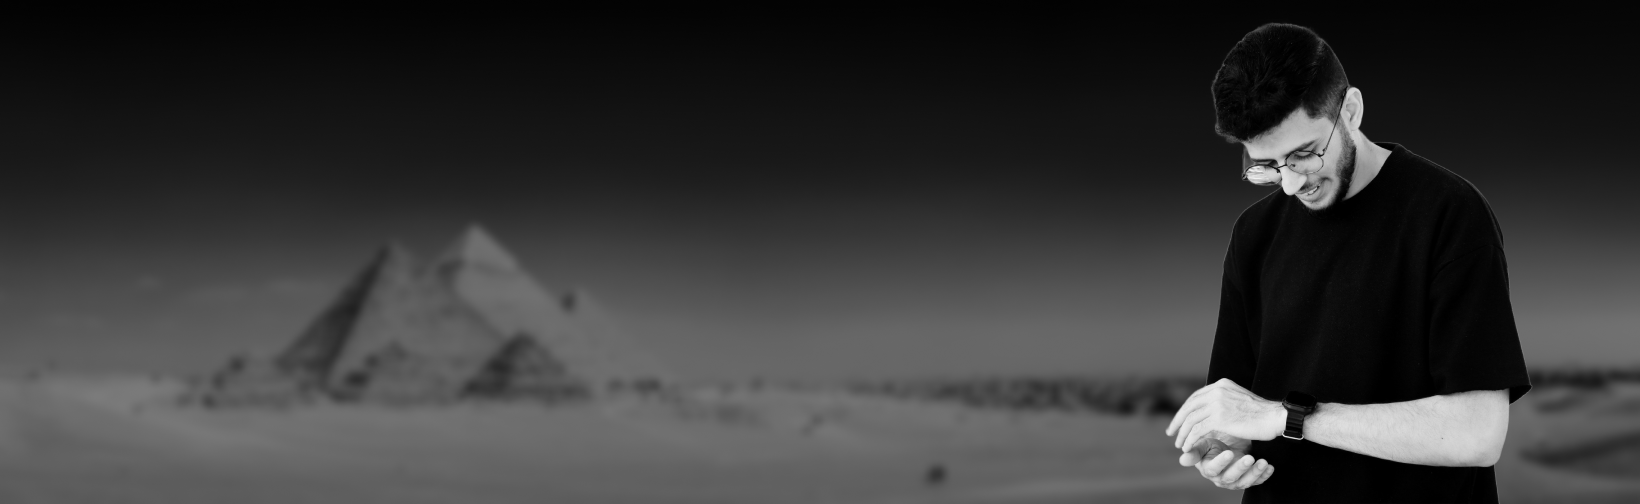
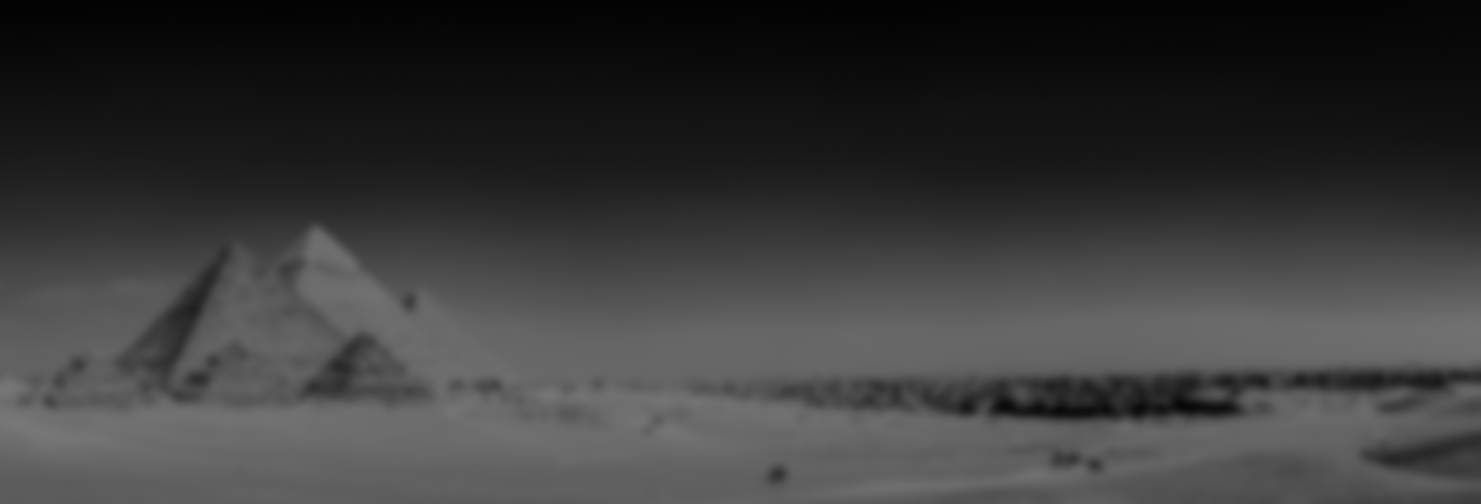
Hire Section responsive Done

diff --git a/src/pages/Home.js b/src/pages/Home.js
@@ -45,6 +45,7 @@ import clientFive from '../assets/clients/5.png';
 import PricingCard from '../components/PricingCard';
 
 import HireMe from '../assets/HireMe.png'
+import HireFigure from '../assets/HireFigure.png'
 
 import wave2 from '../assets/wave2.svg'
 import wave3 from '../assets/wave3.svg'
@@ -295,14 +296,14 @@ function SkillsAndEducation(props) {
             firstGroupRef.current.className = 'skills-group active';
             secondGroupRef.current.className = 'skills-group';
             setTimeout(() => {
-                firstGroupRef.current.style.display = 'block'
+                firstGroupRef.current.style.display = 'flex'
                 secondGroupRef.current.style.display = 'none'
             }, 300);
         } else {
             secondGroupRef.current.className = 'skills-group active';
             firstGroupRef.current.className = 'skills-group';
             setTimeout(() => {
-                secondGroupRef.current.style.display = 'block'
+                secondGroupRef.current.style.display = 'flex'
                 firstGroupRef.current.style.display = 'none'
             }, 300);
         }
@@ -437,6 +438,7 @@ function ClientsComments() {
                 }
             })
         }
+        refreshActiveComment()
         let isDragging = false, startX, startScrollLeft;
         const dragStart = (e) => {
             isDragging = true;
@@ -488,7 +490,7 @@ function ClientsComments() {
                     whileInView={{ opacity: 1, y: 0 }}
                     className='comments-container'>
                     <ClientComment personImage={clientOne} personName='Aziz Ben Naif' personTitle='CEO, AZ IT' comment='Working with Fawzi was an exceptional experience! His understanding of project details was outstanding, and the results exceeded our expectations. I highly recommend him to anyone looking for engaging and effective design solutions' />
-                    <ClientComment personImage={clientTwo} personName='Charlotte Kelly' personTitle='Manager, TechGropse' comment='Fawzi is the best at what he does! His designs are clean, innovative, and user-friendly. He truly added value to our mobile app and received praise from all users.' active={true} />
+                    <ClientComment personImage={clientTwo} personName='Charlotte Kelly' personTitle='Manager, TechGropse' comment='Fawzi is the best at what he does! His designs are clean, innovative, and user-friendly. He truly added value to our mobile app and received praise from all users.' />
                     <ClientComment personImage={clientThree} personName='Ibrahim Elhassan' personTitle='CEO, One Solution' comment='Fawzi has a unique eye for design and consistently turns ideas into creative realities. His professionalism and prompt responses made working with him a real pleasure.' />
                     <ClientComment personImage={clientFour} personName='Saghar Behjati' personTitle='Ui/Ux Designer' comment='I am impressed by Fawzi’s passion and his attention to detail. Every project we collaborate on turns out better than I could have ever expected. I can’t wait for our future projects.' />
                     <ClientComment personImage={clientFive} personName='Matt Bauman' personTitle='Manger, Numero' comment='Finding a designer who genuinely listens and understands your vision is outstanding. The delivered designs were exceptional, and the willingness to adapt and tweak ensured our complete satisfaction. Highly recommended for anyone seeking a distinguished design experience.' />
@@ -548,6 +550,11 @@ function HireMeSection(props) {
     return (
         <div className='hire-container' id='Contact'>
             <img className='hire-cover' src={HireMe} alt='Hire Me' />
+            <motion.img
+                initial={{ opacity: 0, y: 75 }}
+                whileInView={{ opacity: 1, y: 0 }}
+                transition={{ duration: 0.7 }}
+                className='hire-figure' src={HireFigure} alt='Hire Figure' />
             <motion.div
                 initial={{ opacity: 0, x: -200, y: '-70%' }}
                 whileInView={{ opacity: 1, x: '20%', y: '-70%' }}

diff --git a/src/pages/HomeStyle.css b/src/pages/HomeStyle.css
@@ -354,7 +354,9 @@ body{
     width: 100%;
     opacity: 0;
     display: none;
-    min-height: 425px;
+    height: 425px;
+    flex-direction: column;
+    justify-content: center;
 }
 .skills-group.active{
     opacity: 1;
@@ -821,6 +823,13 @@ body{
 }
 .hire-cover{
     width: 100%;
+    position: relative;
+}
+.hire-figure{
+    height: 80%;
+    position: absolute;
+    bottom: 0;
+    right: 10%;
 }
 .hire-text{
     position: absolute;
@@ -865,7 +874,7 @@ body{
     position: absolute;
     transform: skewX(-30deg) translateY(-20%);
     top: 0%;
-    left: -20%;
+    left: -40%;
 }
 .hire-text>span:hover::after{
     transition: 0.3s;
@@ -874,6 +883,33 @@ body{
 @media (width < 1200px) {
     .hire-text h1{
         font-size: 2.5em;
+    }
+}
+@media (width < 900px) {
+    .hire-text h1{
+        font-size: 1.5em;
+    }
+}
+@media (width < 600px) {
+    .hire-cover{
+        object-fit: cover;
+        object-position: left;
+        height: 700px;
+    }
+    .hire-figure{
+        height: 40%;
+        right: 50%;
+        transform: translateX(50%) !important;
+    }
+    .hire-text{
+        text-align: center;
+        left: 50%;
+        top: 20%;
+        transform: translateX(-50%) !important;
+    }
+    .hire-text>span{
+        padding: 20px 50px;
+        text-wrap: nowrap;
     }
 }
 /* Footer */
@@ -970,14 +1006,16 @@ body{
 @media (width < 1000px) {
     .footer-text{
         flex-direction: column;
-        justify-content: center;
-        align-items: center;
         flex-wrap: wrap;
     }
     .footer-text>div{
         width: auto;
-        margin: auto;
+        /* margin: auto; */
+        margin-left: 20%;
         margin-top: 50px;
+    }
+    .footer-text>div ul{
+        padding-left: 15px;
     }
 }
 @media (width < 600px) {

diff --git a/src/components/ClientComment.js b/src/components/ClientComment.js
@@ -3,7 +3,7 @@ import React from 'react'
 
 function ClientComment(props) {
     return (
-        <div className={props.active ? 'client-comment active' : 'client-comment'}>
+        <div className='client-comment'>
             <div className='comment'>
                 <FontAwesomeIcon className='comment-icon' icon="fa-solid fa-quote-left" />
                 <p>{props.comment}</p>

diff --git a/src/components/CursorStyle.css b/src/components/CursorStyle.css
@@ -17,3 +17,9 @@
     scale: 0;
     opacity: 0;
 }
+@media (width < 765px) {
+    .cursor-outline,
+    .cursor-image{
+        display: none;
+    }
+}
